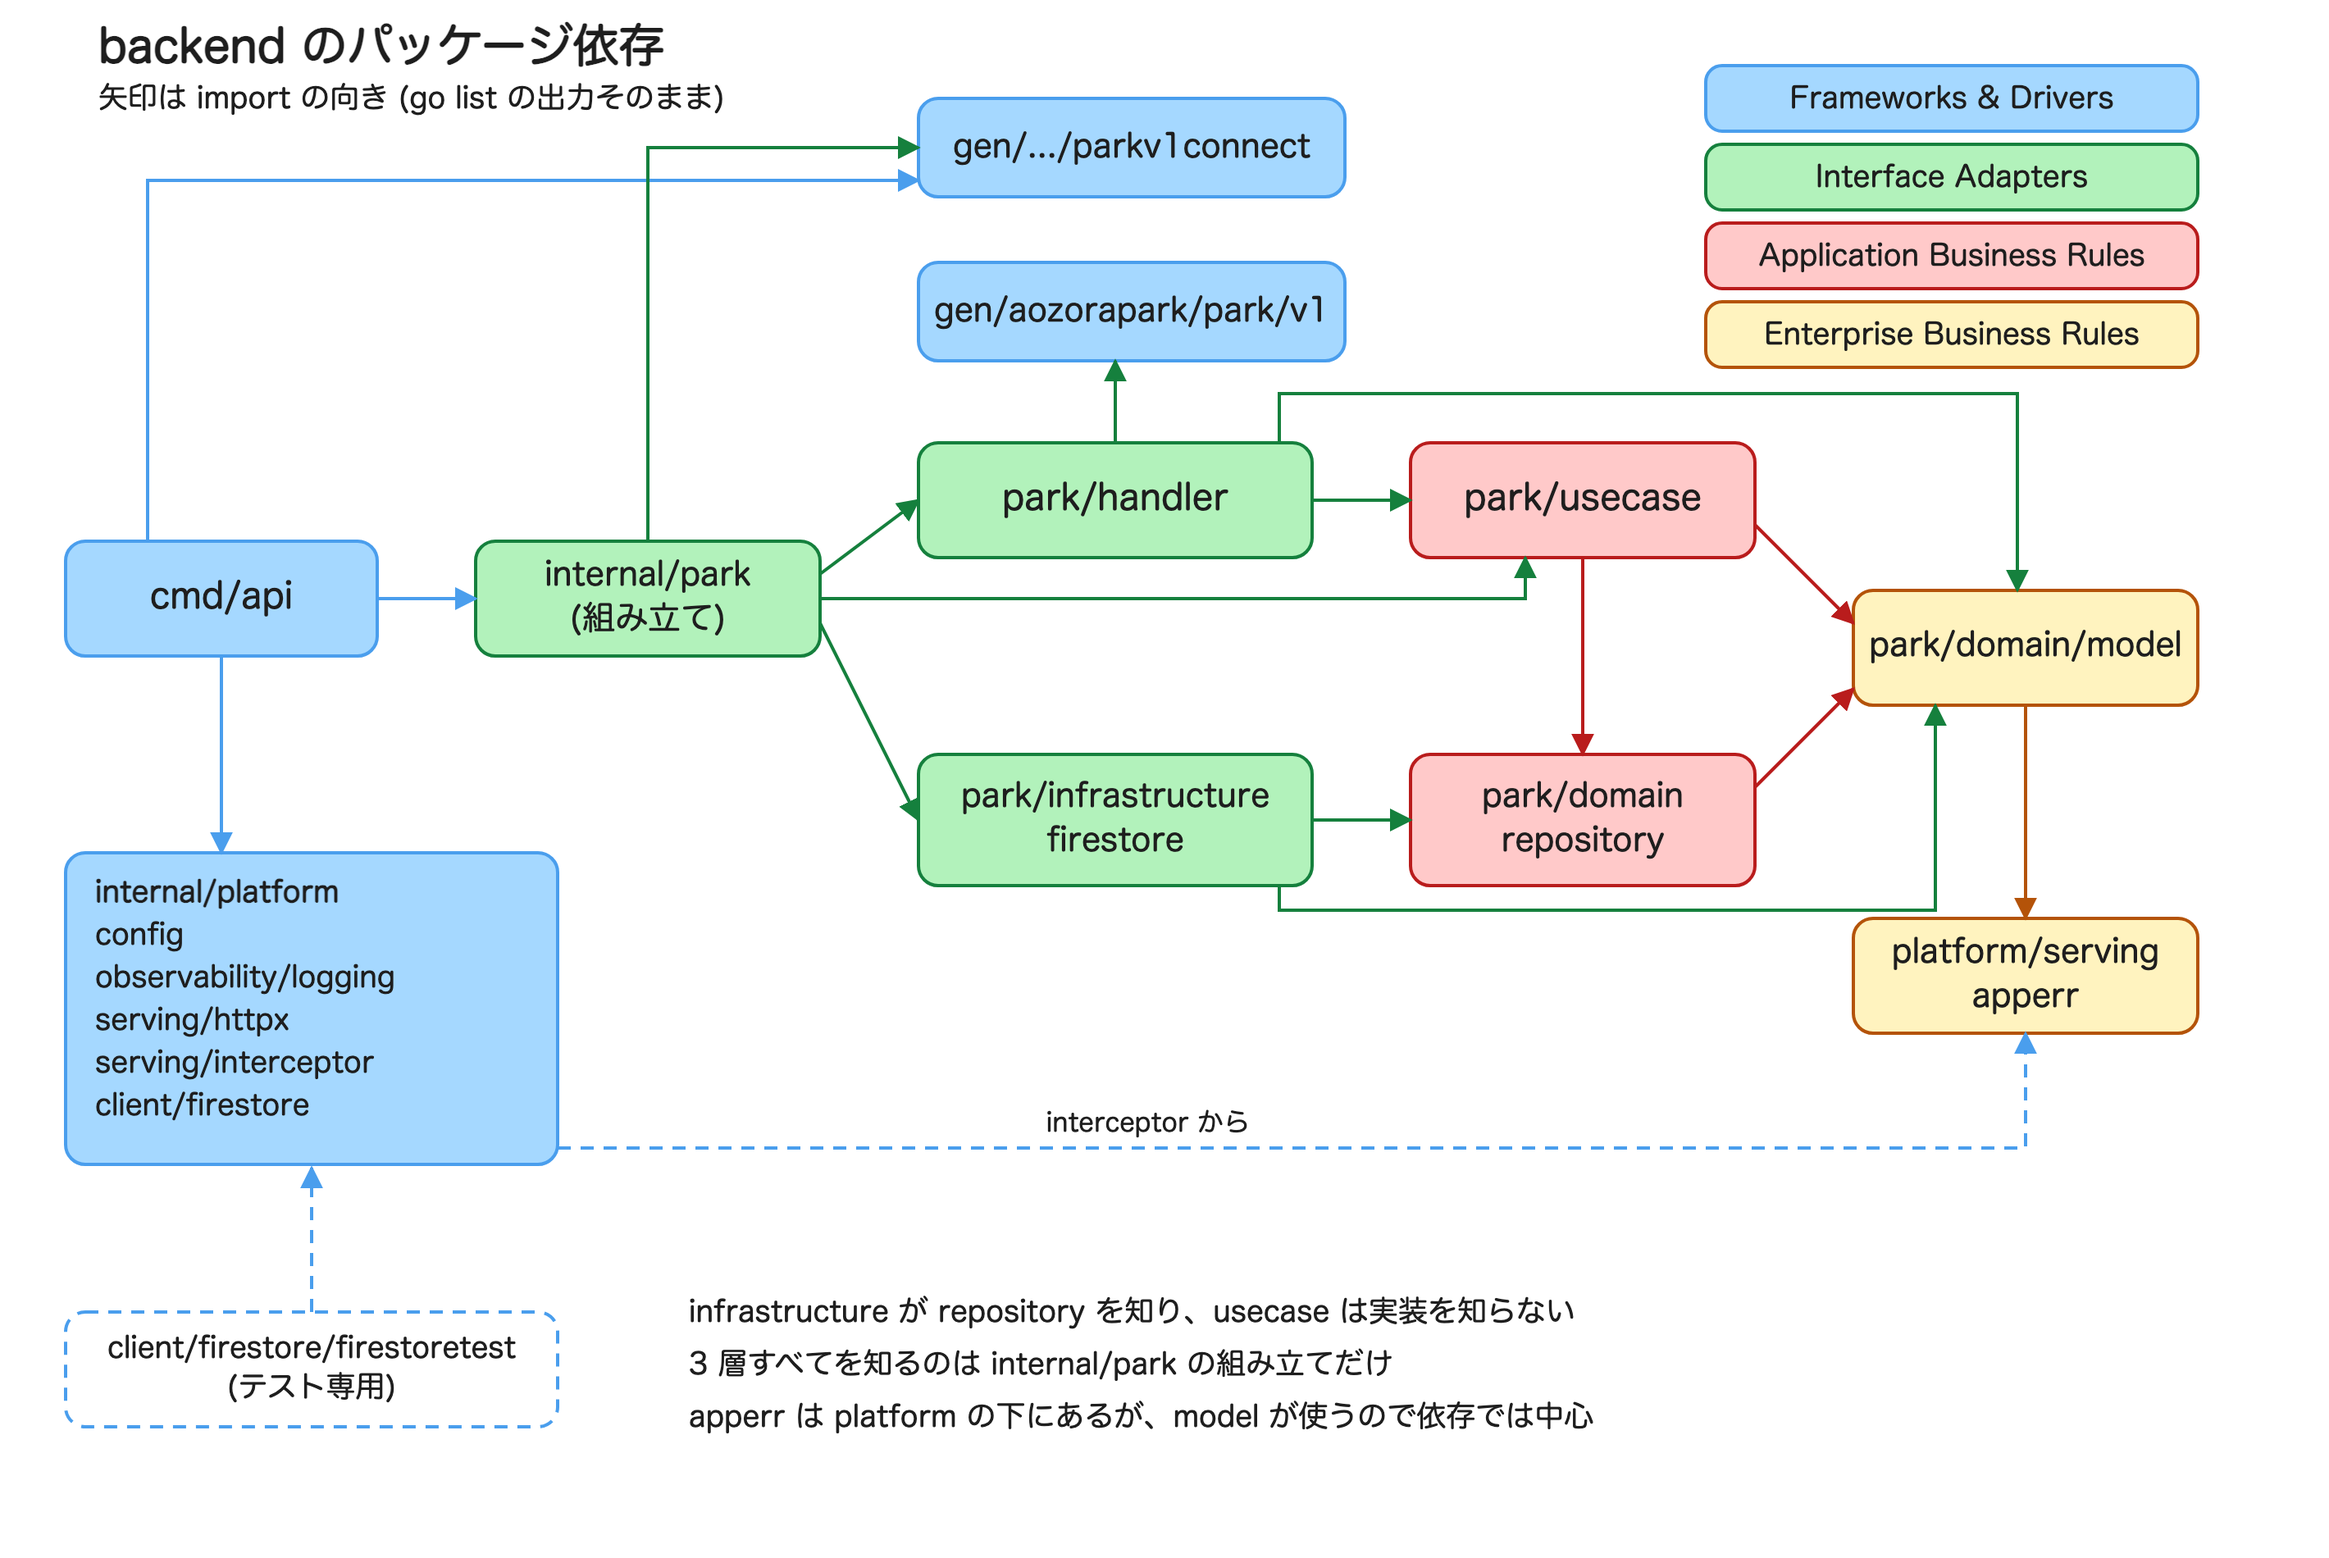
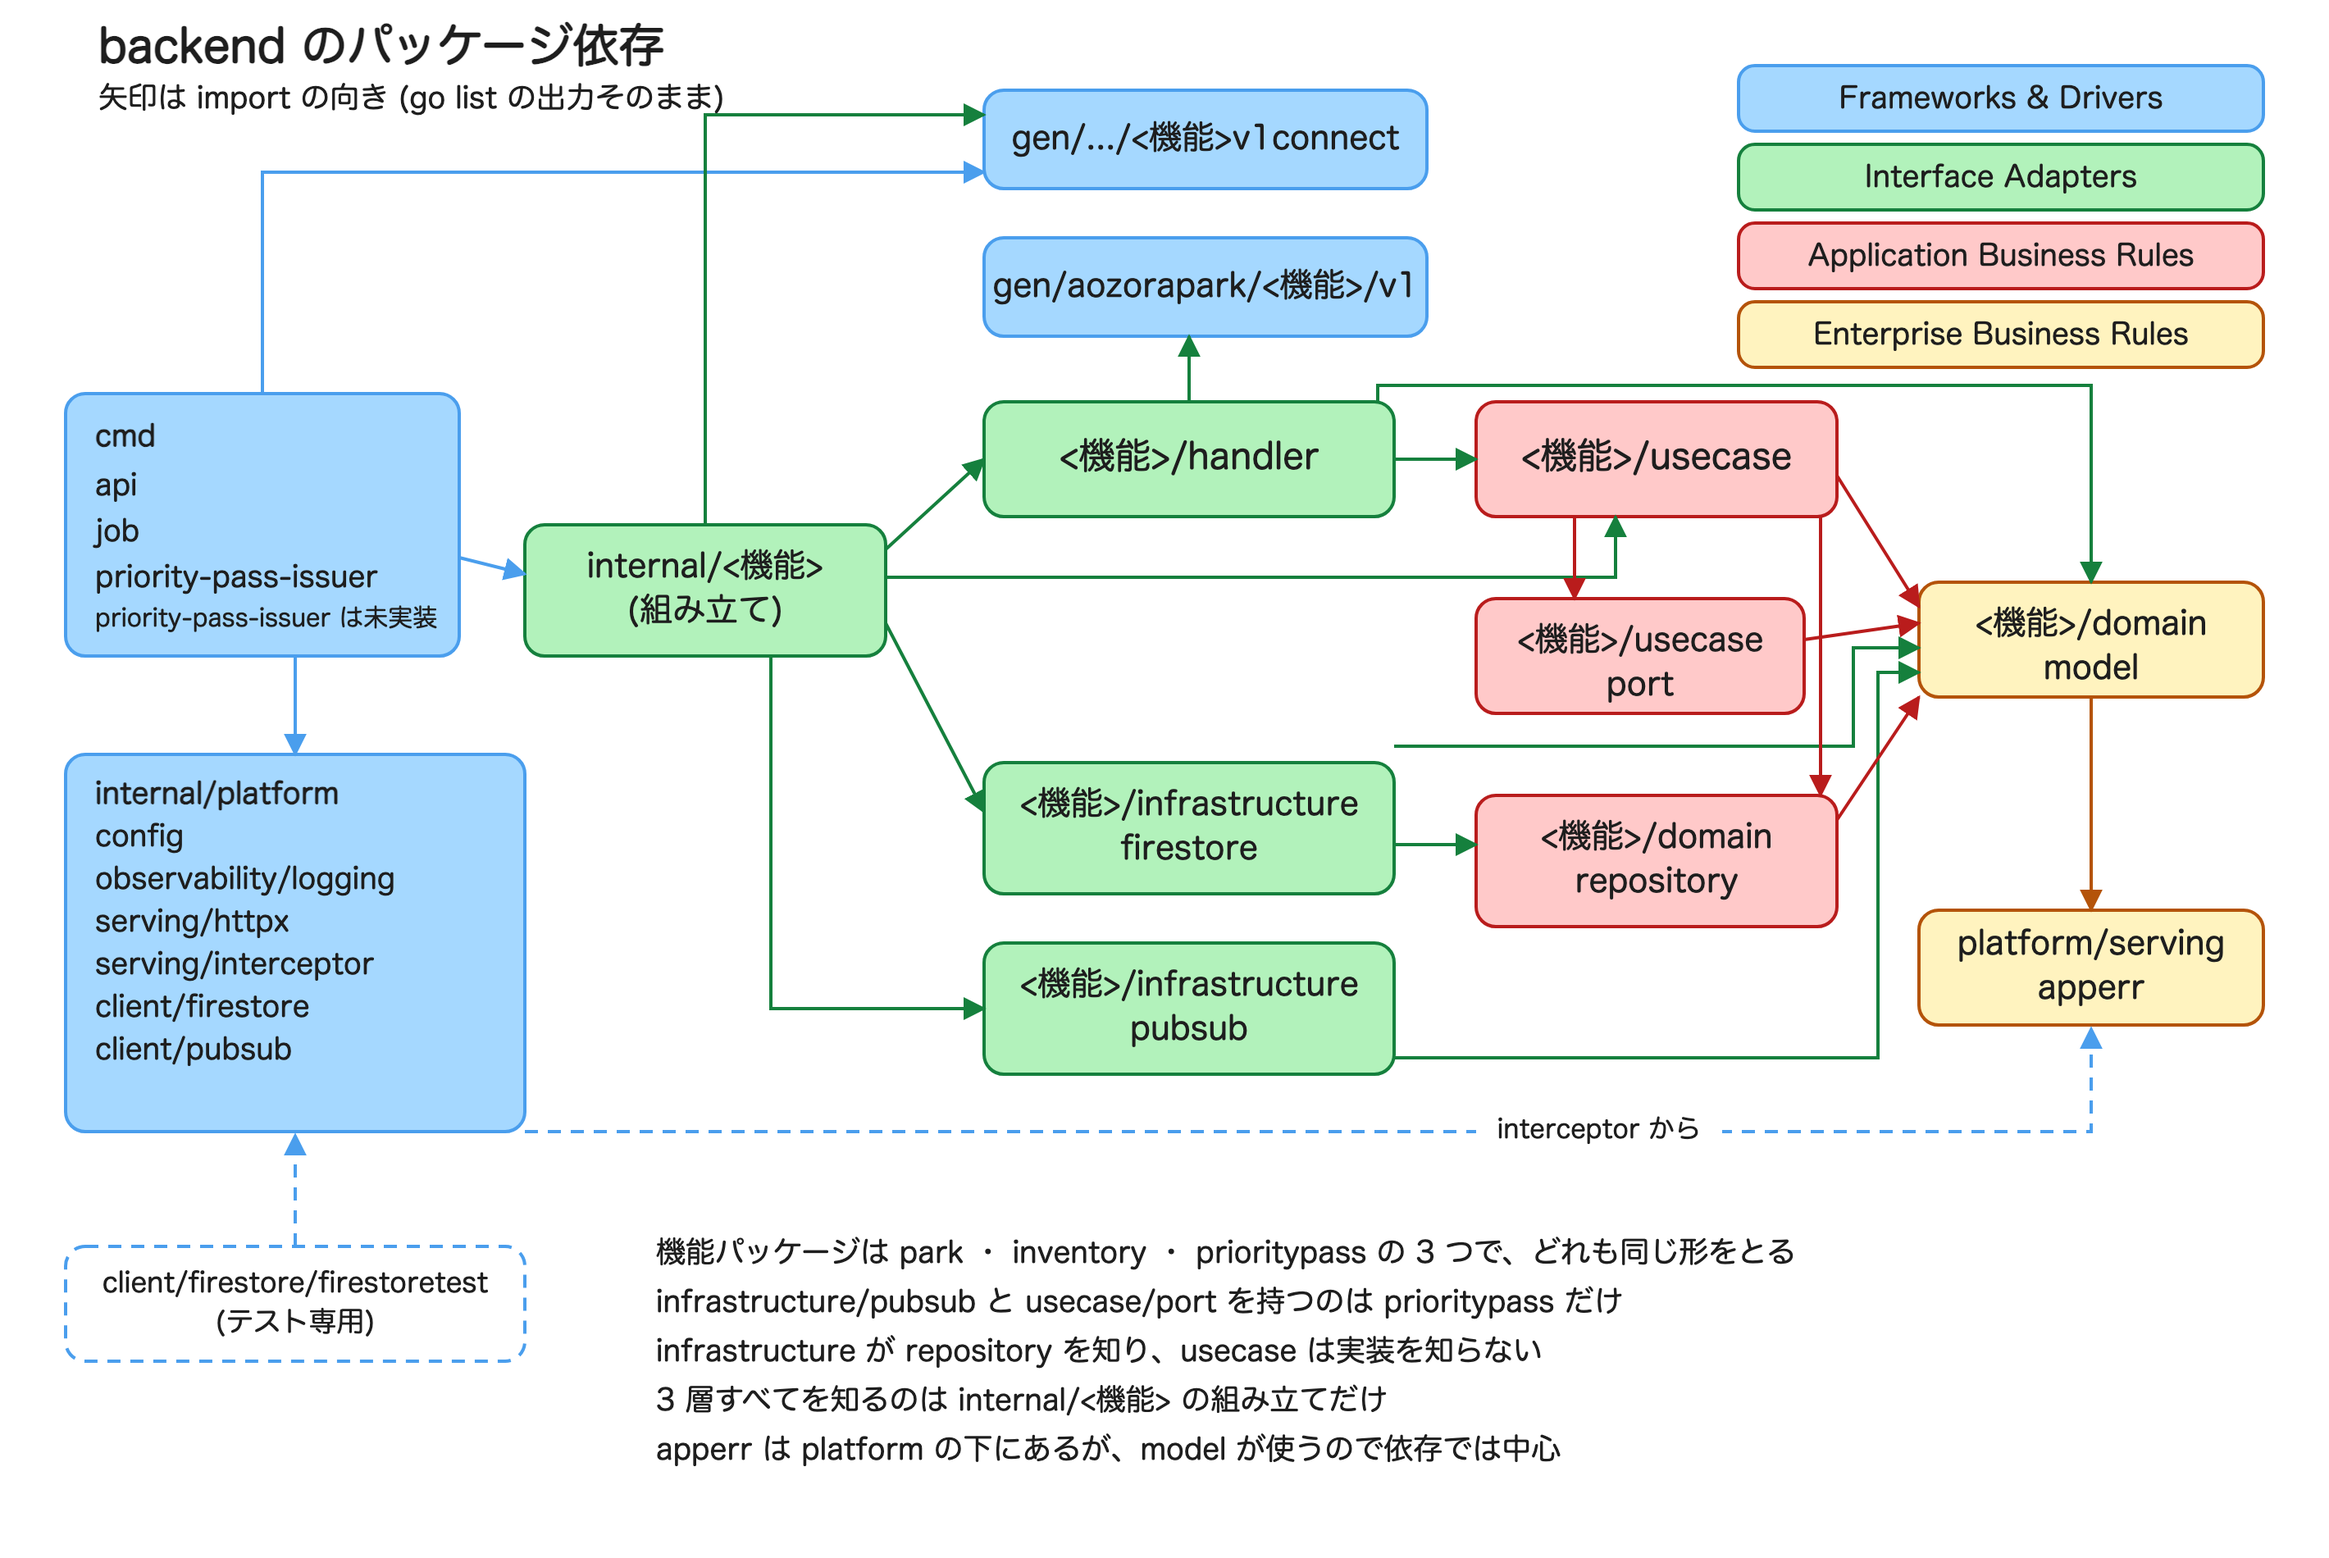
#120 docs: 層の表と図を現在の構成に合わせる (backend)
層の表が park と inventory を名指しで並べており、prioritypass が増えたときに
追従していなかった。マイルストーン 7 で足した cmd/job も表と図の両方に無かった。

表を <機能> のプレースホルダ形式に改め、usecase/port と infrastructure/pubsub と
cmd/job を足した。機能パッケージが 3 つあることと、usecase/port を持つのが
prioritypass だけであることは表の下の段落で補っている。

まだ置いていない cmd/priority-pass-issuer と platform/serving/pubsubpush は表に
入れていない。docs は現状の説明のため、存在しないものを行として並べると表と実物が
一致しなくなる。置き場所を決めてあることだけを段落と図の注記で示した。

判断の記録に 4 件足した。prioritypass だけが usecase/port を持つ理由、publish の
失敗で申込を巻き戻さない理由、publish を ctx から切り離して上限を置く理由 (実測で
60.3 秒が 3.02 秒)、そして機能パッケージ同士を import せず相手のドキュメントを
自分の構造体で読む形とその代償。最後の 1 件は inventory と prioritypass で 2 例目
になるのに記録が無く、依存の説明として一番効くものが抜けていた。

図は原本を書き換えて PNG を再生成した。依存図には platform/client/pubsub と
usecase/port が無く、cmd が api だけになっていた。層の図は park だけを名指しして
おり inventory が入っていなかった。

diff --git a/docs/backend/packages/README.md b/docs/backend/packages/README.md
@@ -12,12 +12,20 @@ The outer split is by business feature, and each feature is split into layers. O
 
 ![Layers and the direction of dependencies](./images/layers.png)
 
-| Ring                       | Packages                                                                                                     |
-| -------------------------- | ------------------------------------------------------------------------------------------------------------ |
-| Enterprise Business Rules  | `park/domain/model`, `inventory/domain/model`, `platform/serving/apperr`                                     |
-| Application Business Rules | `park/usecase`, `park/domain/repository`, `inventory/usecase`, `inventory/domain/repository`                 |
-| Interface Adapters         | `<feature>/handler`, `<feature>/infrastructure/firestore`, `internal/park` and `internal/inventory` (wiring) |
-| Frameworks & Drivers       | `cmd/api`, `internal/platform/**`, `gen/**`                                                                  |
+| Ring                       | Packages                                                                                                                    |
+| -------------------------- | --------------------------------------------------------------------------------------------------------------------------- |
+| Enterprise Business Rules  | `<feature>/domain/model`, `platform/serving/apperr`                                                                         |
+| Application Business Rules | `<feature>/usecase`, `<feature>/usecase/port`, `<feature>/domain/repository`                                                |
+| Interface Adapters         | `<feature>/handler`, `<feature>/infrastructure/firestore`, `<feature>/infrastructure/pubsub`, `internal/<feature>` (wiring) |
+| Frameworks & Drivers       | `cmd/api`, `cmd/job`, `internal/platform/**`, `gen/**`                                                                      |
+
+The feature packages are `park`, `inventory` and `prioritypass`, and all three have the same shape.
+Only `prioritypass` has a `usecase/port` and an `infrastructure/pubsub`.
+
+`cmd/job` is one binary whose subcommand selects the work. The only one so far is the slot pre-generation (`generate`).
+
+`cmd/priority-pass-issuer`, which receives the priority pass allocation, and `platform/serving/pubsubpush`, which unwraps the Pub/Sub push envelope, are not there yet.
+Only where they go is decided, in `.claude/rules/go/coding.md`.
 
 ## Dependencies between packages
 
@@ -52,6 +60,16 @@ Its only outward-facing knowledge is the method that maps a `Kind` to a `connect
 **`inventory` turns its identifiers and its date into value objects.** `ParkID`, `AttractionID`, `TimeSlotID` and `Date` are passed side by side as strings into the repository methods, where swapping two of them would still compile. The start time, the capacity and the remaining count never leave `DateInventory` or `TimeSlot` on their own, so they stay primitive.
 
 **`inventory` never creates a slot.** `domain/model` only offers `RestoreDateInventory` and `RestoreTimeSlot`. Slots are created ahead of time by a job, so adding a `New` here would give creation two entry points.
+
+**Only `prioritypass` has a `usecase/port`.** Persistence belongs to `domain/repository`, but publishing is not persistence. The port lists only the methods the caller needs, and `infrastructure/pubsub` implements it. `park` and `inventory` touch nothing but Firestore, so they have no such layer.
+
+**A failed publish does not roll the request back.** Recreating an already created request would mean a duplicate, so a failed send is logged instead of returned as an error. A successful send is recorded in `publishedAt`, which leaves the ones that were never sent to be picked up later.
+
+**The publish is detached from the caller's ctx and given a deadline.** While the destination is unreachable the SDK keeps retrying, so without a deadline the request takes that much longer to answer. Measured, an RPC that took 60.3 seconds without one came down to 3.02 seconds with `context.WithoutCancel` and a 3 second `context.WithTimeout`.
+
+**Feature packages do not import each other; they read each other's documents through their own structs.** `inventory` reads the master data `park` wrote, and `prioritypass` reads the time slots `inventory` wrote. Neither uses the other's `domain/model`: each keeps a struct of just the fields it needs. `DataTo` drops fields the struct does not declare, so adding a field on the writing side breaks nothing.
+
+The cost is that a collection path and a field name now live in two places. Changing only one of them goes unnoticed when the implementation and the test helper read the same constant, so a test compares the assembled path against a literal (`TestRepositoryTimeSlotDocPath`). Once a third reader appears, this arrangement is worth revisiting.
 
 ## Regenerating the diagrams
 
